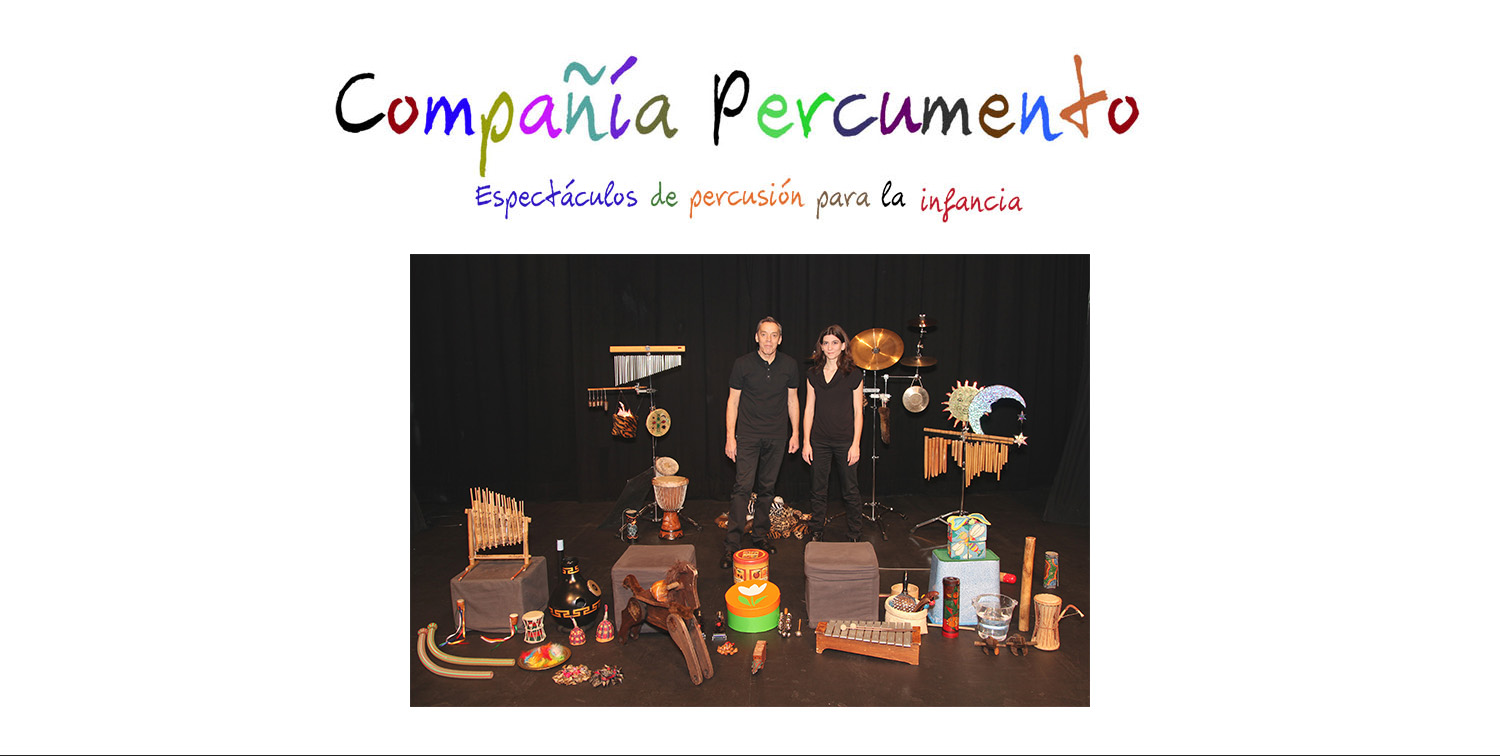
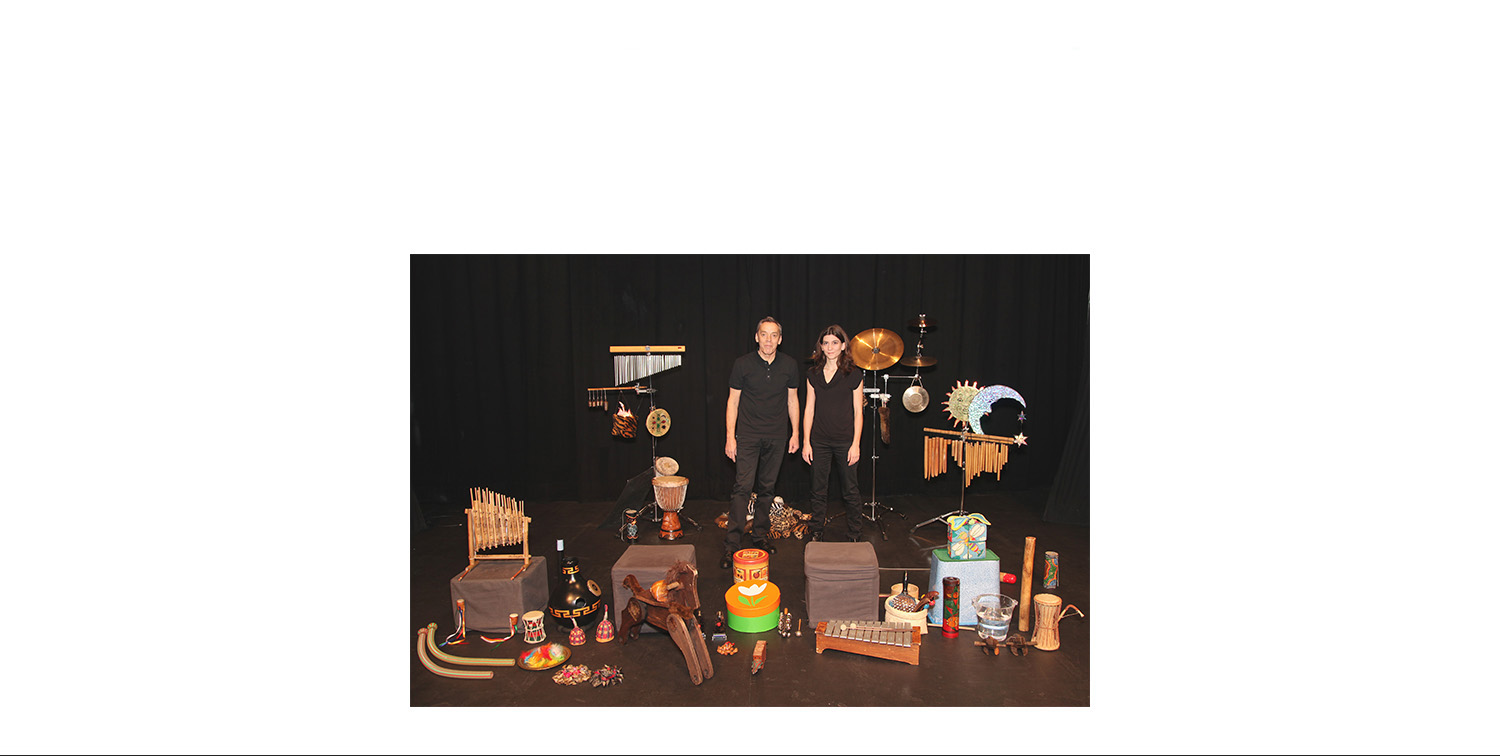
New Concert

Changed region(s): [[0.2147, 0.0608, 0.7667, 0.3042]]

diff --git a/css/grayscale.css b/css/grayscale.css
@@ -159,7 +159,11 @@ a:focus {
 
 .intro .intro-body {
     display: table-cell;
-    vertical-align: middle;
+}
+
+#logo {
+    margin-top: 60px;
+    width:100%;
 }
 
 .intro .intro-body .brand-heading {
@@ -168,6 +172,12 @@ a:focus {
 
 .intro .intro-body .intro-text {
     font-size: 18px;
+}
+
+@media(max-width:768px) {
+    .intro {
+        background: white;
+    }
 }
 
 @media(min-width:768px) {
@@ -185,115 +195,29 @@ a:focus {
     }
 }
 
-.btn-circle {
-    width: 70px;
-    height: 70px;
-    margin-top: 15px;
-    padding: 7px 16px;
-    border: 2px solid #000;
-    border-radius: 100%!important;
-    font-size: 40px;
-    color: #000;
-    background: 0 0;
-    -webkit-transition: background .3s ease-in-out;
-    -moz-transition: background .3s ease-in-out;
-    transition: background .3s ease-in-out;
+.sections img{
+    width: 165px;
+    height: 124px;
 }
 
-.btn-circle:hover,
-.btn-circle:focus {
-    outline: 0;
-    color: #000;
-    background: rgba(255,255,255,.1);
+.left {
+    float:left;
 }
 
-.btn-circle i.animated {
-    -webkit-transition-property: -webkit-transform;
-    -webkit-transition-duration: 1s;
-    -moz-transition-property: -moz-transform;
-    -moz-transition-duration: 1s;
-}
-
-.btn-circle:hover i.animated {
-    -webkit-animation-name: pulse;
-    -moz-animation-name: pulse;
-    -webkit-animation-duration: 1.5s;
-    -moz-animation-duration: 1.5s;
-    -webkit-animation-iteration-count: infinite;
-    -moz-animation-iteration-count: infinite;
-    -webkit-animation-timing-function: linear;
-    -moz-animation-timing-function: linear;
-}
-
-@-webkit-keyframes pulse {    
-    0% {
-        -webkit-transform: scale(1);
-        transform: scale(1);
-    }
-
-    50% {
-        -webkit-transform: scale(1.2);
-        transform: scale(1.2);
-    }
-
-    100% {
-        -webkit-transform: scale(1);
-        transform: scale(1);
-    }
-}
-
-@-moz-keyframes pulse {    
-    0% {
-        -moz-transform: scale(1);
-        transform: scale(1);
-    }
-
-    50% {
-        -moz-transform: scale(1.2);
-        transform: scale(1.2);
-    }
-
-    100% {
-        -moz-transform: scale(1);
-        transform: scale(1);
-    }
+.right {
+    float: right;
 }
 
 .content-section {
     padding-top: 100px;
 }
 
-.download-section {
-    width: 100%;
-    padding: 50px 0;
-    color: #fff;
-    background: url(../img/downloads-bg.jpg) no-repeat center center scroll;
-    background-color: #fff;
-    -webkit-background-size: cover;
-    -moz-background-size: cover;
-    background-size: cover;
-    -o-background-size: cover;
-}
-
-#map {
-    width: 100%;
-    height: 200px;
-    margin-top: 100px;
-}
 
 @media(min-width:767px) {
     .content-section {
         padding-top: 100px;
     }
 
-    .download-section {
-        padding: 100px 0;
-    }
-
-    #map {
-        height: 400px;
-        margin-top: 250px;
-    }
 }
 
 .btn {

diff --git a/index.html b/index.html
@@ -80,12 +80,24 @@
         <div class="intro-body">
             <div class="container">
                 <div class="row">
-                    <div class="col-md-8 col-md-offset-2">
-                        <!--<h1 class="brand-heading">La compañía perocumento</h1>
-                        <a href="#about" class="btn btn-circle page-scroll">
-                            <i class="fa fa-angle-double-down animated"></i>
-                        </a>-->
-                        <!--<img src="img/portada.jpg">-->
+                    <div class="col-md-12">
+                        <img src="img/percumento_logo.png" id="logo">
+                    </div>
+                </div>
+                <div class="row sections">
+                    <div class="col-md-4">
+                        <img src="img/portada.jpg" class="left">
+                    </div>
+                    <div class="col-md-4 col-md-offset-4">
+                        <img src="img/portada.jpg" class="right">
+                    </div>
+                </div><br><br><br>
+                <div class="row sections">
+                    <div class="col-md-4">
+                        <img src="img/portada.jpg" class="left">
+                    </div>
+                    <div class="col-md-4 col-md-offset-4">
+                        <img src="img/portada.jpg" class="right">
                     </div>
                 </div>
             </div>
